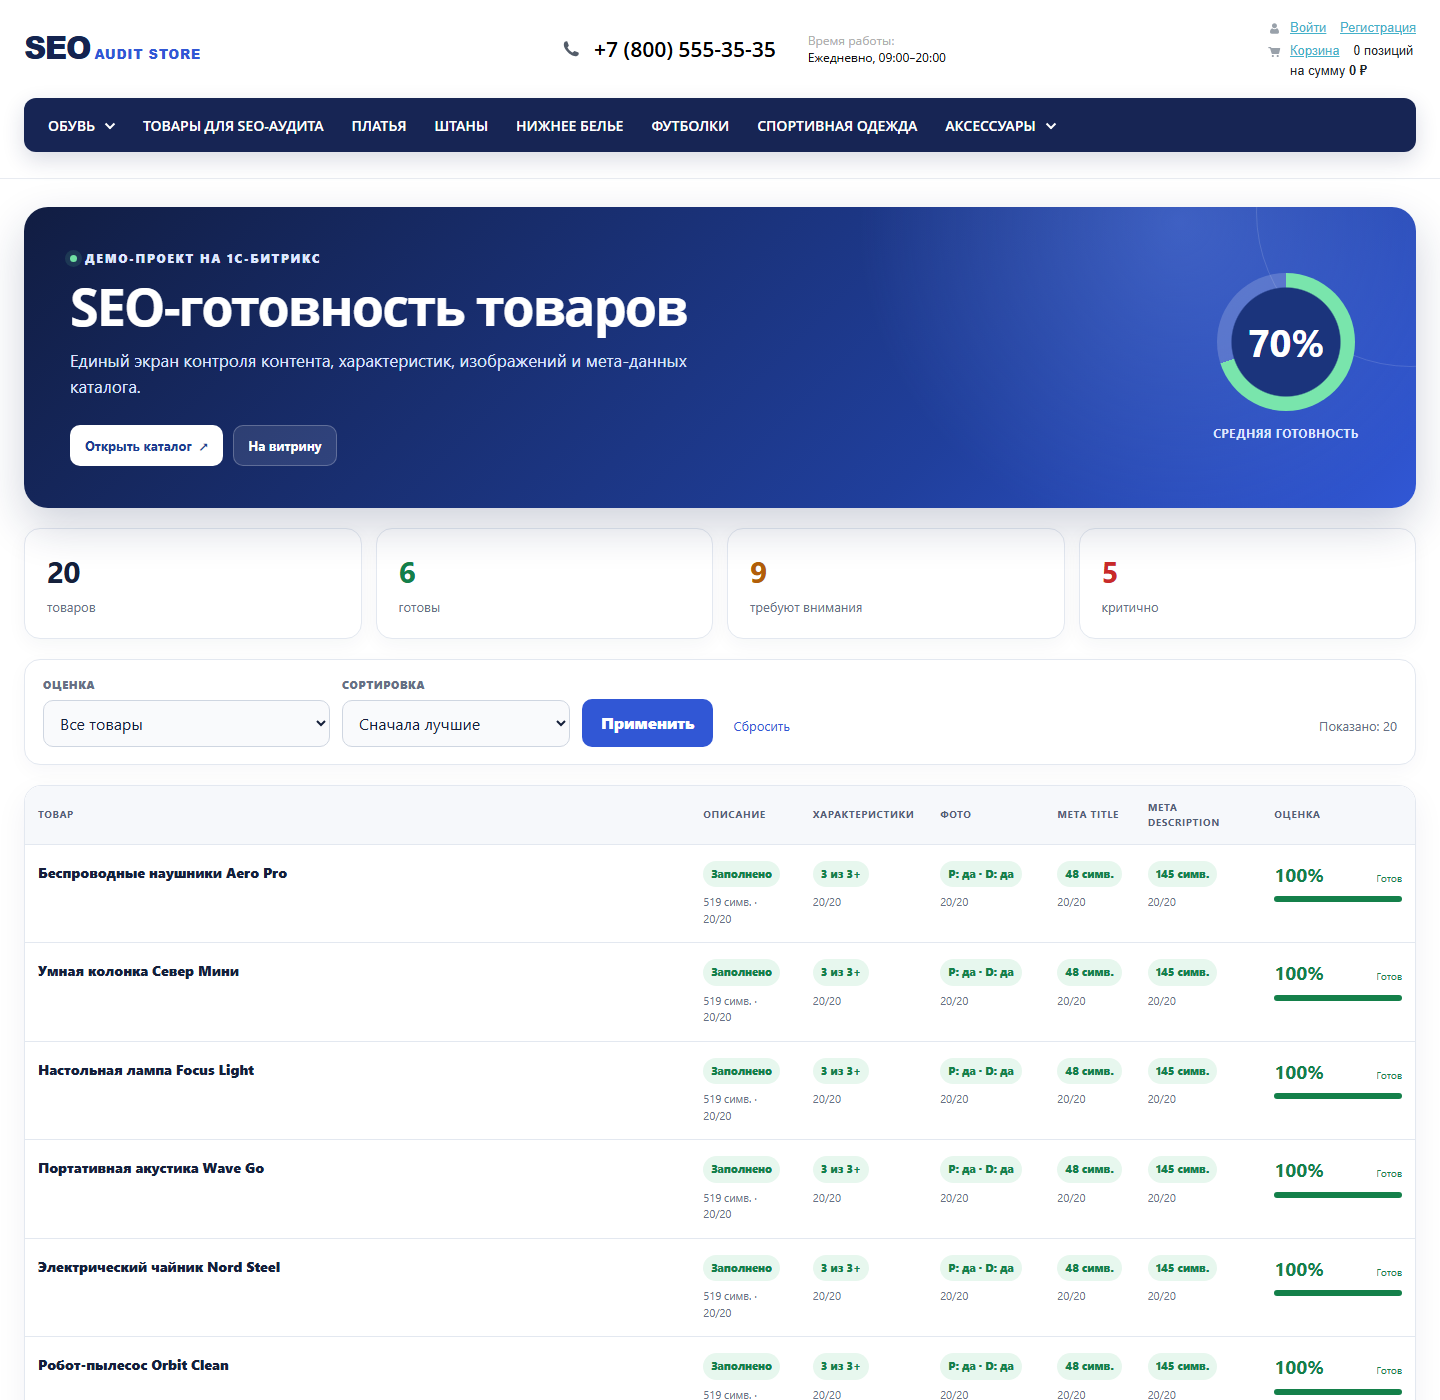
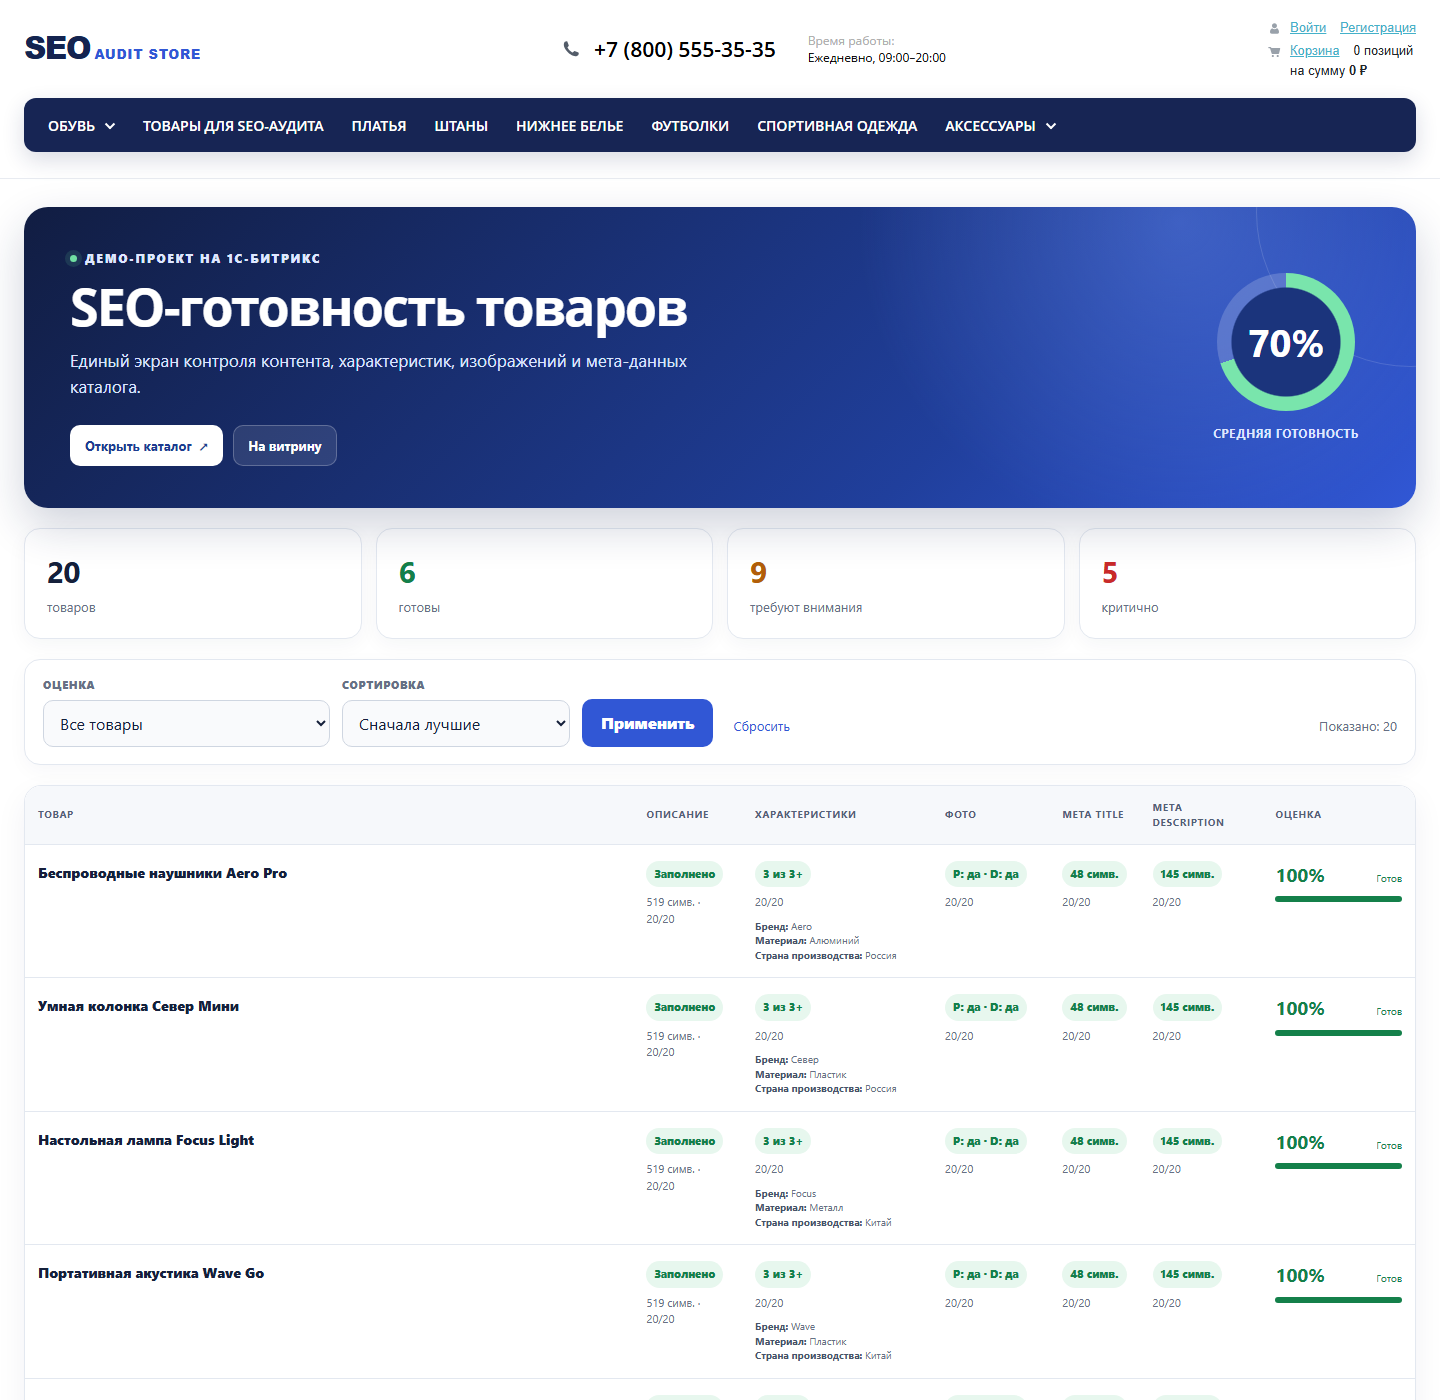
fix: align audited properties with product cards

diff --git a/local/components/candidate/product.seo.audit/templates/.default/style.css b/local/components/candidate/product.seo.audit/templates/.default/style.css
@@ -370,6 +370,24 @@
     min-width: 235px;
 }
 
+.seo-audit__characteristics {
+    min-width: 190px;
+}
+
+.seo-audit__characteristic-list {
+    color: var(--muted);
+    font-size: 10px;
+    line-height: 1.45;
+    list-style: none;
+    margin: 8px 0 0;
+    padding: 0;
+}
+
+.seo-audit__characteristic-list strong {
+    color: #46536a;
+    font-weight: 700;
+}
+
 .seo-audit__product > a {
     color: var(--ink);
     font-size: 14px;
@@ -639,6 +657,7 @@
     }
 
     .seo-audit__product,
+    .seo-audit__characteristics,
     .seo-audit__score {
         min-width: 0;
     }

diff --git a/tools/lib/CatalogDetailProperties.php b/tools/lib/CatalogDetailProperties.php
@@ -1,0 +1,75 @@
+<?php
+
+declare(strict_types=1);
+
+namespace Candidate\SeoAudit;
+
+use RuntimeException;
+
+final class CatalogDetailProperties
+{
+    /**
+     * Adds property codes to DETAIL_PROPERTY_CODE without changing other catalog parameters.
+     */
+    public static function withRequiredCodes(string $contents, array $requiredCodes): string
+    {
+        $pattern = '/(?<opening>^[\t ]*["\']DETAIL_PROPERTY_CODE["\']\s*=>\s*array\(\R)(?<body>.*?)(?<closing>^[\t ]*\),)/ms';
+        $replacements = 0;
+
+        $result = preg_replace_callback(
+            $pattern,
+            static function (array $matches) use ($requiredCodes): string {
+                preg_match_all('/=>\s*["\']([^"\']+)["\']/', $matches['body'], $codeMatches);
+                $codes = array_values(array_filter(array_map(
+                    static fn($code): string => strtoupper(trim((string)$code)),
+                    $codeMatches[1] ?? []
+                )));
+
+                foreach ($requiredCodes as $requiredCode) {
+                    $requiredCode = strtoupper(trim((string)$requiredCode));
+                    if ($requiredCode !== '' && !in_array($requiredCode, $codes, true)) {
+                        $codes[] = $requiredCode;
+                    }
+                }
+
+                $lineEnding = str_contains($matches[0], "\r\n") ? "\r\n" : "\n";
+                preg_match('/^([\t ]*)\d+\s*=>/m', $matches['body'], $indentMatch);
+                $indent = $indentMatch[1] ?? '                ';
+                $body = '';
+                foreach ($codes as $index => $code) {
+                    $body .= sprintf('%s%d => "%s",%s', $indent, $index, $code, $lineEnding);
+                }
+
+                return $matches['opening'] . $body . $matches['closing'];
+            },
+            $contents,
+            1,
+            $replacements
+        );
+
+        if ($result === null || $replacements !== 1) {
+            throw new RuntimeException('Не удалось найти параметр DETAIL_PROPERTY_CODE в странице каталога.');
+        }
+
+        return $result;
+    }
+
+    public static function updateFile(string $path, array $requiredCodes): bool
+    {
+        $contents = file_get_contents($path);
+        if ($contents === false) {
+            throw new RuntimeException(sprintf('Не удалось прочитать файл каталога %s.', $path));
+        }
+
+        $updated = self::withRequiredCodes($contents, $requiredCodes);
+        if ($updated === $contents) {
+            return false;
+        }
+
+        if (file_put_contents($path, $updated, LOCK_EX) === false) {
+            throw new RuntimeException(sprintf('Не удалось обновить файл каталога %s.', $path));
+        }
+
+        return true;
+    }
+}

diff --git a/tools/seed_catalog.php b/tools/seed_catalog.php
@@ -4,7 +4,12 @@ declare(strict_types=1);
 
 use Bitrix\Catalog\CatalogIblockTable;
 use Bitrix\Iblock\InheritedProperty\ElementValues;
+use Bitrix\Iblock\Model\PropertyFeature;
 use Bitrix\Main\Loader;
+
+require_once __DIR__ . '/lib/CatalogDetailProperties.php';
+
+use Candidate\SeoAudit\CatalogDetailProperties;
 
 $documentRoot = getenv('BITRIX_DOCUMENT_ROOT') ?: '/var/www/html';
 $_SERVER['DOCUMENT_ROOT'] = rtrim($documentRoot, '/');
@@ -51,7 +56,9 @@ function ensureProperty(int $iblockId, string $code, string $name, int $sort): i
     $iterator = CIBlockProperty::GetList([], ['IBLOCK_ID' => $iblockId, 'CODE' => $code]);
     while ($existing = $iterator->Fetch()) {
         if (strtoupper((string)$existing['CODE']) === strtoupper($code)) {
-            return (int)$existing['ID'];
+            $propertyId = (int)$existing['ID'];
+            ensurePropertyFeatures($propertyId);
+            return $propertyId;
         }
     }
 
@@ -70,7 +77,32 @@ function ensureProperty(int $iblockId, string $code, string $name, int $sort): i
         throw new RuntimeException(sprintf('Не удалось создать свойство %s: %s', $code, $property->LAST_ERROR));
     }
 
+    ensurePropertyFeatures((int)$propertyId);
     return (int)$propertyId;
+}
+
+function ensurePropertyFeatures(int $propertyId): void
+{
+    $result = PropertyFeature::updateFeatures($propertyId, [
+        [
+            'MODULE_ID' => 'iblock',
+            'FEATURE_ID' => 'DETAIL_PAGE_SHOW',
+            'IS_ENABLED' => 'Y',
+        ],
+        [
+            'MODULE_ID' => 'iblock',
+            'FEATURE_ID' => 'LIST_PAGE_SHOW',
+            'IS_ENABLED' => 'Y',
+        ],
+    ]);
+
+    if (!$result->isSuccess()) {
+        throw new RuntimeException(sprintf(
+            'Не удалось включить показ свойства %d: %s',
+            $propertyId,
+            implode('; ', $result->getErrorMessages())
+        ));
+    }
 }
 
 function ensureSection(int $iblockId): int
@@ -235,6 +267,14 @@ $iblockId = findProductIblock();
 ensureProperty($iblockId, 'BRAND', 'Бренд', 100);
 ensureProperty($iblockId, 'MATERIAL', 'Материал', 110);
 ensureProperty($iblockId, 'COUNTRY', 'Страна производства', 120);
+$catalogPage = $_SERVER['DOCUMENT_ROOT'] . '/catalog/index.php';
+$catalogPageUpdated = CatalogDetailProperties::updateFile(
+    $catalogPage,
+    ['BRAND', 'MATERIAL', 'COUNTRY']
+);
+output($catalogPageUpdated
+    ? 'Карточка товара настроена на вывод бренда, материала и страны производства.'
+    : 'Настройки характеристик карточки товара уже актуальны.');
 $sectionId = ensureSection($iblockId);
 $elementApi = new CIBlockElement();
 

diff --git a/local/components/candidate/product.seo.audit/templates/.default/template.php b/local/components/candidate/product.seo.audit/templates/.default/template.php
@@ -77,6 +77,7 @@ $summary = $arResult['SUMMARY'];
                 <?php foreach ($arResult['ITEMS'] as $item):
                     $audit = $item['AUDIT'];
                     $blocks = $audit['blocks'];
+                    $characteristicDetails = $item['CHARACTERISTIC_DETAILS'] ?? [];
                     ?>
                     <tr>
                         <td data-label="Товар" class="seo-audit__product">
@@ -91,11 +92,18 @@ $summary = $arResult['SUMMARY'];
                             </span>
                             <small><?= (int)$blocks['description']['length'] ?> симв. · <?= (int)$blocks['description']['score'] ?>/20</small>
                         </td>
-                        <td data-label="Характеристики">
+                        <td data-label="Характеристики" class="seo-audit__characteristics">
                             <span class="seo-check <?= $blocks['characteristics']['count'] >= 3 ? 'is-filled' : 'is-partial' ?>">
                                 <?= (int)$blocks['characteristics']['count'] ?> из 3+
                             </span>
                             <small><?= (int)$blocks['characteristics']['score'] ?>/20</small>
+                            <?php if ($characteristicDetails !== []): ?>
+                                <ul class="seo-audit__characteristic-list">
+                                    <?php foreach ($characteristicDetails as $characteristic): ?>
+                                        <li><strong><?= htmlspecialcharsbx($characteristic['NAME']) ?>:</strong> <?= htmlspecialcharsbx($characteristic['VALUE']) ?></li>
+                                    <?php endforeach; ?>
+                                </ul>
+                            <?php endif; ?>
                         </td>
                         <td data-label="Фото">
                             <span class="seo-check <?= $blocks['photo']['score'] === 20 ? 'is-filled' : ($blocks['photo']['filled'] ? 'is-partial' : 'is-empty') ?>">

diff --git a/tests/run.php b/tests/run.php
@@ -3,7 +3,9 @@
 declare(strict_types=1);
 
 require_once __DIR__ . '/../local/components/candidate/product.seo.audit/lib/SeoScoreCalculator.php';
+require_once __DIR__ . '/../tools/lib/CatalogDetailProperties.php';
 
+use Candidate\SeoAudit\CatalogDetailProperties;
 use Candidate\SeoAudit\SeoScoreCalculator;
 
 function expectSame($expected, $actual, string $message): void
@@ -79,5 +81,26 @@ $partial = SeoScoreCalculator::evaluate([
 ]);
 expectSame(35, $partial['score'], 'частично заполненный товар получает ожидаемую сумму');
 expectSame('critical', $partial['status']['code'], '35 баллов относится к критичному статусу');
+
+$catalogPage = <<<'PHP'
+        "DETAIL_PROPERTY_CODE" => array(
+                0 => "NEWPRODUCT",
+                1 => "MANUFACTURER",
+                2 => "MATERIAL",
+        ),
+        "DETAIL_META_KEYWORDS" => "KEYWORDS",
+PHP;
+$configuredCatalogPage = CatalogDetailProperties::withRequiredCodes(
+    $catalogPage,
+    ['BRAND', 'MATERIAL', 'COUNTRY']
+);
+expectSame(1, substr_count($configuredCatalogPage, '"BRAND"'), 'бренд добавляется в характеристики карточки');
+expectSame(1, substr_count($configuredCatalogPage, '"MATERIAL"'), 'существующий материал не дублируется');
+expectSame(1, substr_count($configuredCatalogPage, '"COUNTRY"'), 'страна добавляется в характеристики карточки');
+expectSame(
+    $configuredCatalogPage,
+    CatalogDetailProperties::withRequiredCodes($configuredCatalogPage, ['BRAND', 'MATERIAL', 'COUNTRY']),
+    'настройка карточки идемпотентна'
+);
 
 fwrite(STDOUT, "All tests passed.\n");

diff --git a/local/components/candidate/product.seo.audit/component.php b/local/components/candidate/product.seo.audit/component.php
@@ -89,6 +89,7 @@ if ($this->StartResultCache($cacheTime, $cacheId)) {
 
     foreach ($products as $productId => $product) {
         $characteristics = [];
+        $characteristicDetails = [];
         foreach ($characteristicCodes as $code) {
             $property = $propertyValues[$productId][$code] ?? null;
             if (!$property) {
@@ -97,7 +98,13 @@ if ($this->StartResultCache($cacheTime, $cacheId)) {
             $values = is_array($property['VALUE'] ?? null) ? $property['VALUE'] : [$property['VALUE'] ?? null];
             foreach ($values as $value) {
                 if (is_scalar($value) && trim((string)$value) !== '') {
-                    $characteristics[$code] = trim((string)$value);
+                    $displayValue = trim((string)$value);
+                    $characteristics[$code] = $displayValue;
+                    $characteristicDetails[] = [
+                        'CODE' => $code,
+                        'NAME' => trim((string)($property['NAME'] ?? '')) ?: $code,
+                        'VALUE' => $displayValue,
+                    ];
                     break;
                 }
             }
@@ -119,6 +126,7 @@ if ($this->StartResultCache($cacheTime, $cacheId)) {
             'NAME' => $product['NAME'],
             'DETAIL_PAGE_URL' => $product['DETAIL_PAGE_URL'],
             'CHARACTERISTICS' => $characteristics,
+            'CHARACTERISTIC_DETAILS' => $characteristicDetails,
             'META_TITLE' => (string)($inherited['ELEMENT_META_TITLE'] ?? ''),
             'META_DESCRIPTION' => (string)($inherited['ELEMENT_META_DESCRIPTION'] ?? ''),
             'AUDIT' => $audit,
@@ -159,4 +167,3 @@ if ($this->StartResultCache($cacheTime, $cacheId)) {
 
     $this->IncludeComponentTemplate();
 }
-

diff --git a/README.md b/README.md
@@ -13,6 +13,7 @@
 - фильтрация по статусу и сортировка по оценке или названию;
 - кеширование с учётом параметров отчёта;
 - полноширинный интерфейс отчёта без устаревших боковых блоков демошаблона;
+- вывод названий и значений характеристик в отчёте и на карточке товара;
 - адаптивная таблица и конкретные рекомендации по каждому товару.
 
 ## Скриншоты
